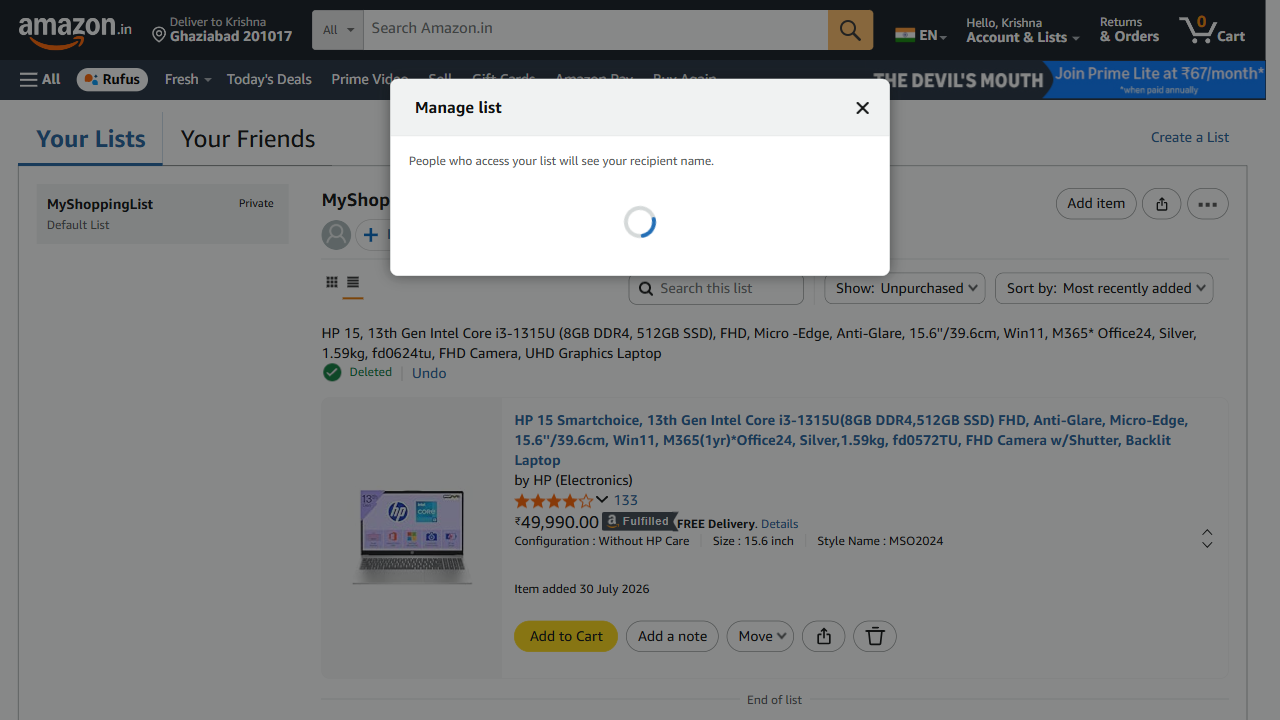
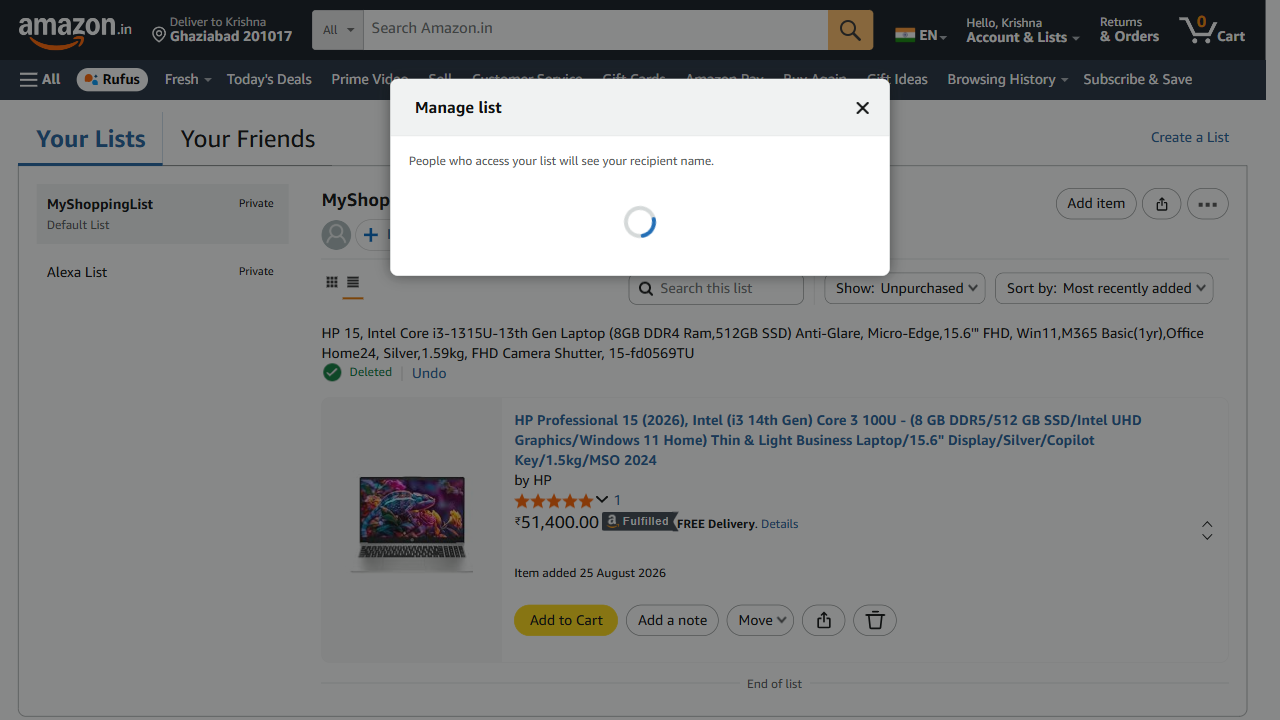
Updating framework

diff --git a/tests/TC05-wishlistAddRemove.spec.js b/tests/TC05-wishlistAddRemove.spec.js
@@ -19,45 +19,19 @@ let homePageobj, searchResultsPageobj, loginPageobj, wishlistPageobj;
 
 test.beforeAll(async ({ browser }) => {
     const page = await browser.newPage();
-    homePageobj = new HomePage(page);           //Avoid calling objects everyplace
+    homePageobj = new HomePage(page);          
     loginPageobj = new LoginPage(page);
     searchResultsPageobj = new SearchResultsPage(page);
 
     await homePageobj.navigateToHomePage();
     await loginPageobj.login(testData.email, testData.password);
     await loginPageobj.validateLoggedIn(expectedName);
-    await addAllProducts();
+
+    wishlistPageobj = await WishlistPage.addProductsAndOpenWishlist({homePageobj,searchResultsPageobj,productName,productIndexes,expectedBtnText,wishlistUrl,expectedWishlistItemCount});
 });
 
-// Adds each product to the wishlist, then opens the wishlist 
-async function addAllProducts() {
-    await homePageobj.searchProduct(productName);
-    await searchResultsPageobj.validateSearchResults(productName);
-
-    for (let i = 0; i < productIndexes.length; i++) {
-        const productPage = await searchResultsPageobj.openProduct(productIndexes[i]);
-        const productDetails = new ProductDetailsPage(productPage);
-
-        await productDetails.validateProductPrice();
-        await productDetails.addToWishlist(expectedBtnText);
-        await productDetails.validateAddedToWishlistDialog();
-
-        const isLastProduct = i === productIndexes.length - 1;
-
-        if (!isLastProduct) {
-            await productDetails.closeAfterWishlistConfirmation();
-            await homePageobj.page.bringToFront();
-        } else {
-            wishlistPageobj = new WishlistPage(productPage);
-            await wishlistPageobj.openWishlist(wishlistUrl);
-            await wishlistPageobj.validateWishlistItemCount(expectedWishlistItemCount);
-        }
-    }
-}
 
 test.describe('Scenario 5 - Add Product to Wishlist and Remove It', () => {
-
-
 test('TC01 - Remove a single item from the wishlist', async () => {
     const indexOfItemToRemove = 0;
 

diff --git a/pages/wishlistPage.js b/pages/wishlistPage.js
@@ -1,4 +1,5 @@
 const { expect } = require('@playwright/test');
+const { ProductDetailsPage } = require('./ProductDetailsPage.js');
 
 const locators = {
     wishlistNavLink: '[id*="your-list"] a',
@@ -126,5 +127,36 @@ class WishlistPage {
     await expect(this.page.locator(locators.emptyWishlistMessage)).toContainText('There are no items in this List.');
     await this.page.close();
     }
+
+    static async addProductsAndOpenWishlist({
+        homePageobj,searchResultsPageobj,productName,productIndexes,expectedBtnText,wishlistUrl,expectedWishlistItemCount
+    }) {
+        await homePageobj.searchProduct(productName);
+        await searchResultsPageobj.validateSearchResults(productName);
+        let wishlistPageobj;
+
+        for (let i = 0; i < productIndexes.length; i++) {
+            const productPage = await searchResultsPageobj.openProduct(productIndexes[i]);
+            const productDetails = new ProductDetailsPage(productPage);
+
+            await productDetails.validateProductPrice();
+            await productDetails.addToWishlist(expectedBtnText);
+            await productDetails.validateAddedToWishlistDialog();
+            const isLastProduct = i === productIndexes.length - 1;
+
+            if (!isLastProduct) {
+                await productDetails.closeAfterWishlistConfirmation();
+                await homePageobj.page.bringToFront();
+            } else {
+                wishlistPageobj = new WishlistPage(productPage);
+                await wishlistPageobj.openWishlist(wishlistUrl);
+                await wishlistPageobj.validateWishlistItemCount(expectedWishlistItemCount);
+            }
+        }
+
+        return wishlistPageobj;
+    }
+
+
 }
 module.exports = { WishlistPage };

diff --git a/tests/TC08-loginPage.spec.js b/tests/TC08-loginPage.spec.js
@@ -1,7 +1,7 @@
 const { test } = require('@playwright/test');
 const { HomePage } = require('../pages/HomePage.js');
 const { LoginPage } = require('../pages/LoginPage.js');
-const testData = require('../utils/testData');
+const testData = require('../utils/testData.js');
 
 const expectedName = 'Krishna';
 
